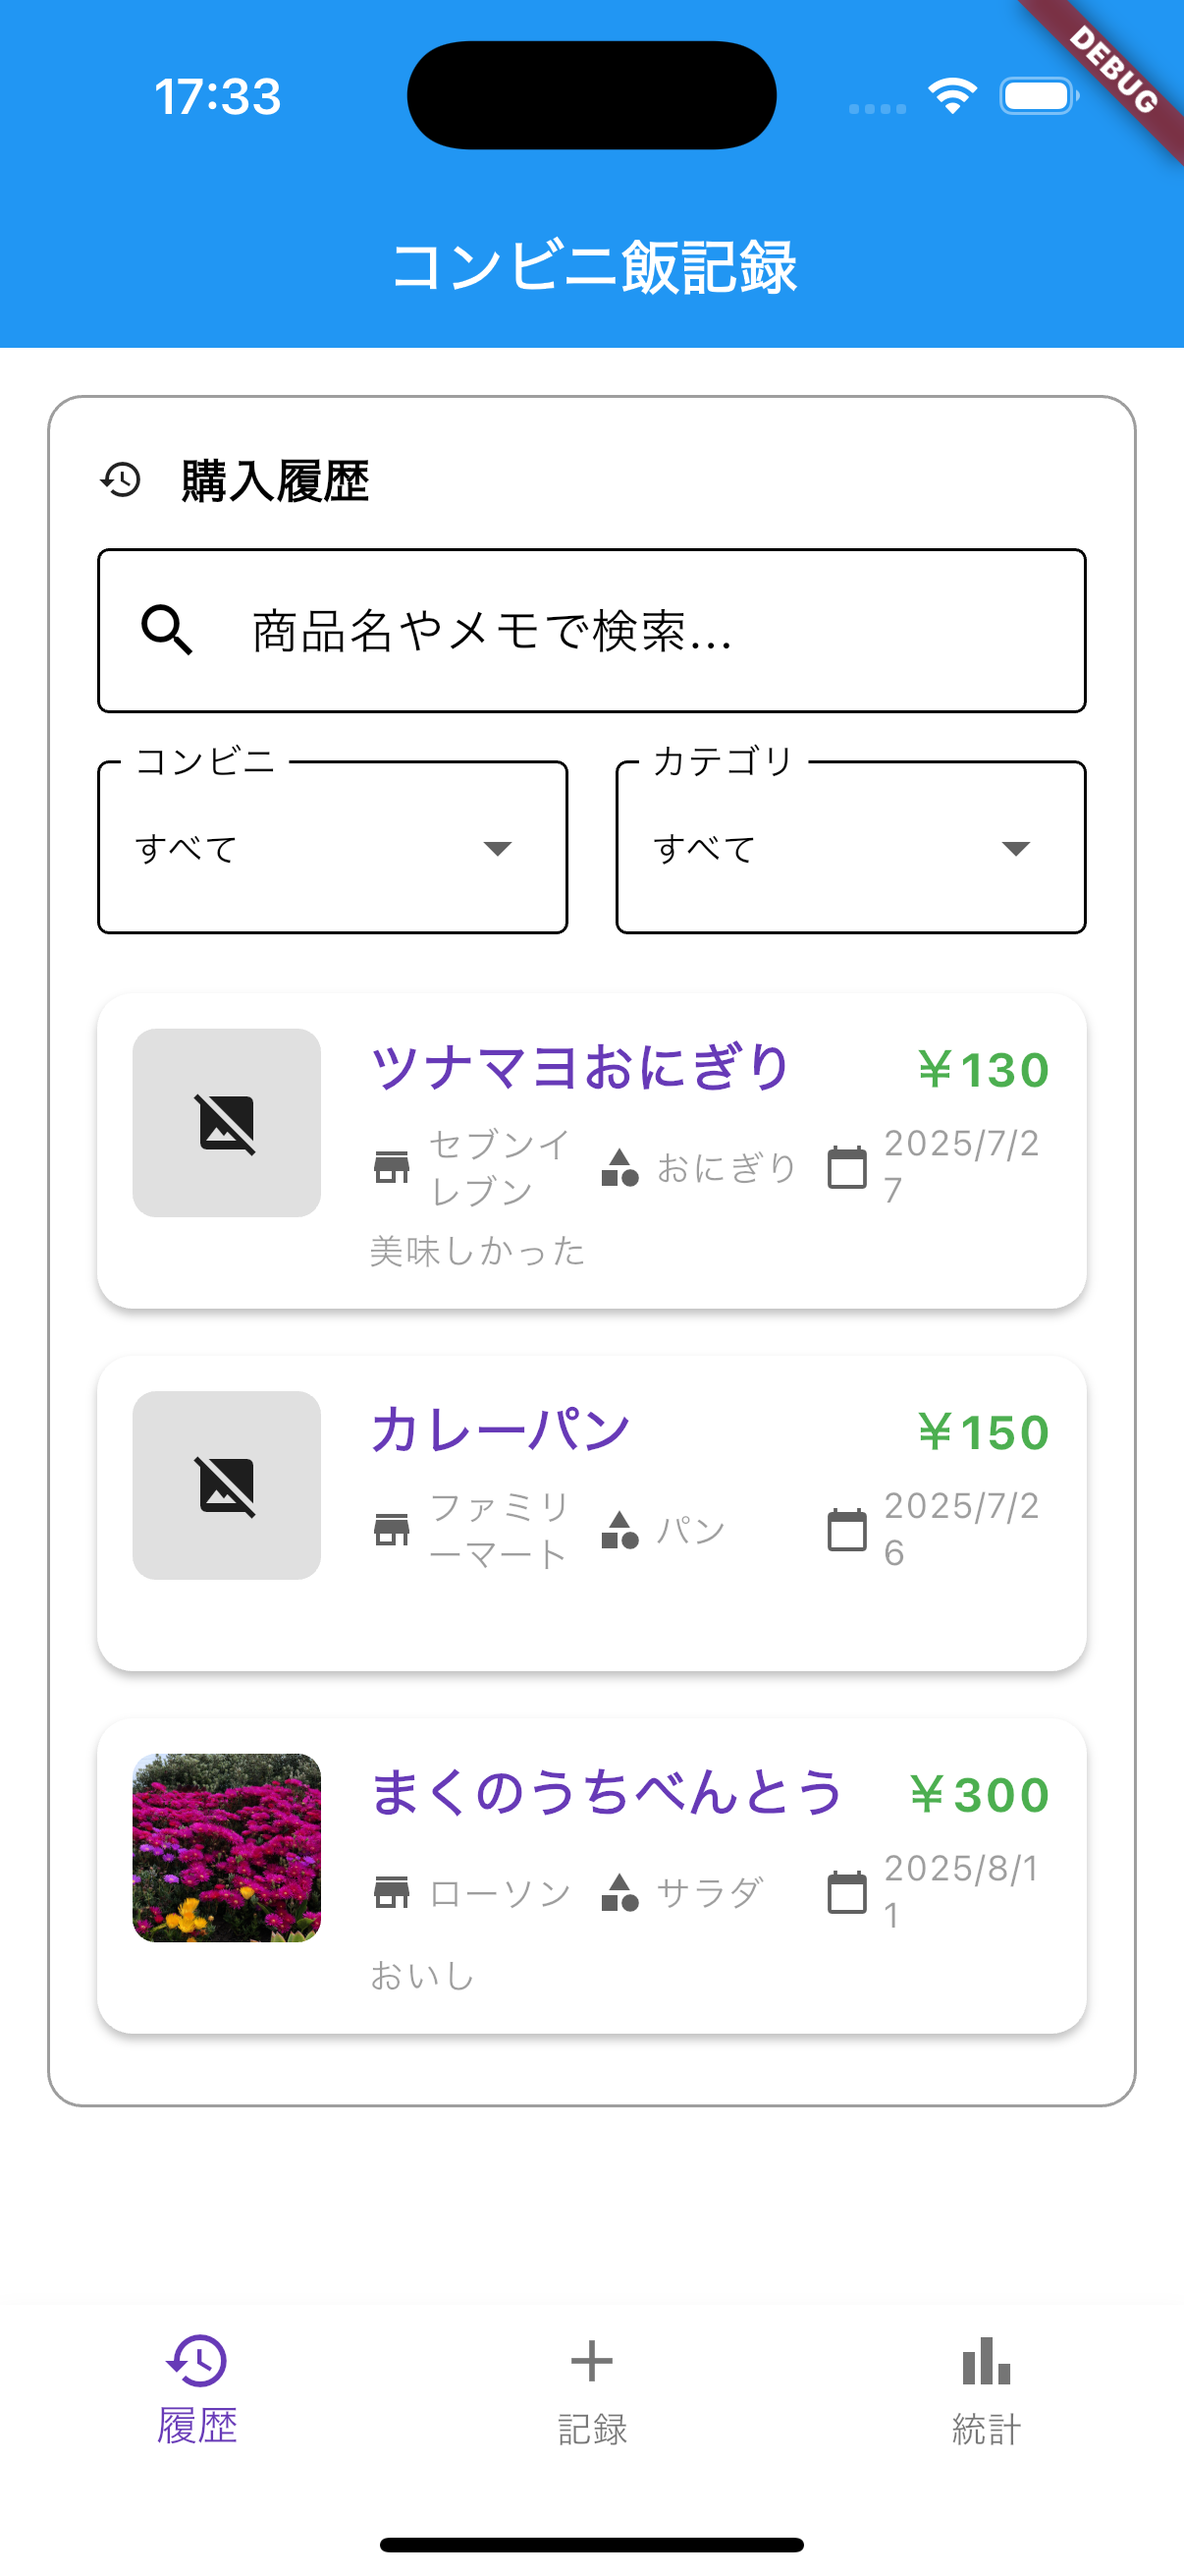
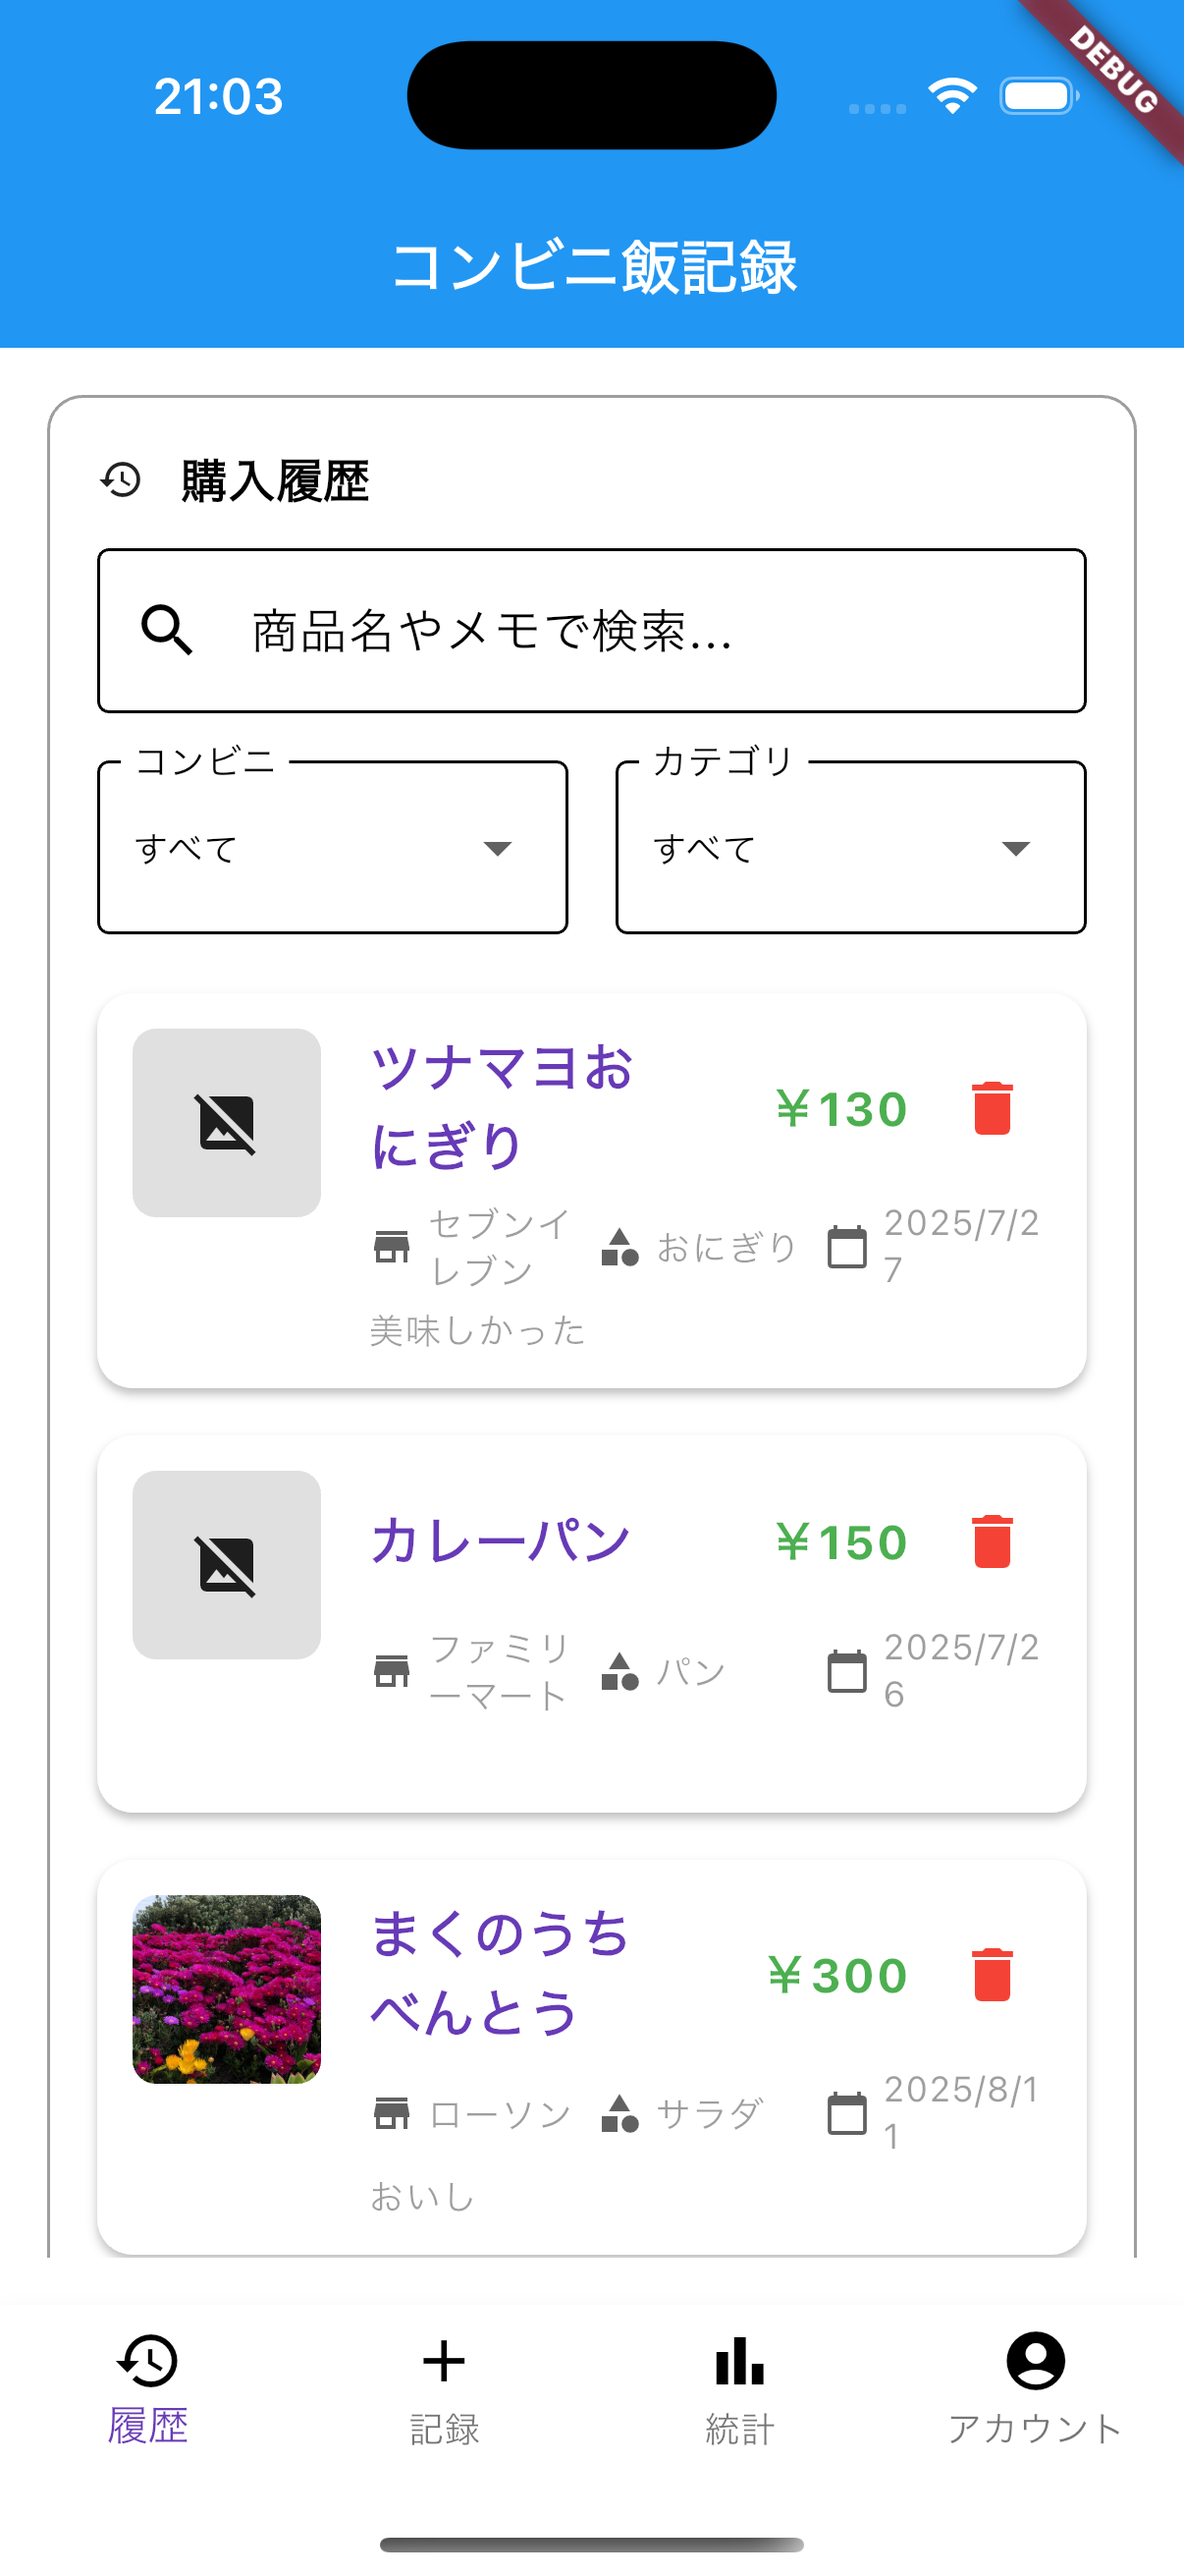
update README

diff --git a/mobile-apps/convenience_store_food_record_app/README.md b/mobile-apps/convenience_store_food_record_app/README.md
@@ -1,57 +1,72 @@
-# コンビニ飯記録アプリ
+# コンビニ飯記録アプリ 🍱
 
-## 対応OS
+Flutter で開発した、**コンビニで購入した商品の記録・履歴・統計を簡単に管理できるアプリ**です。  
+日々の支出や食生活を“見える化”して、自分の「コンビニ習慣」を振り返ることができます。
+
+---
+
+## 🚀 対応OS
 - iOS
 - Android
 
-## 機能一覧
-- 記録画面:購入したコンビニの商品（おにぎり、パン、デザートなど）を写真と簡単なメモ、金額とともに記録。
-- 履歴画面:記録した商品の履歴を一覧で表示。商品名やカテゴリなどで検索・フィルタリングできる。
-- 統計画面:記録したデータから、コンビニごとの購入回数や、ジャンル別の支出などをグラフで表示
+---
 
-## 使用技術、FW、LB
-- Flutter & Dart: メイン言語
-- flutter_localization: メッセージ管理
-- go_router: 画面遷移
-- Riverpod: 状態管理
-- minio: クラウドStogageオブジェクト保存処理
-- supabase_flutter: Supabase関連処理
+## 📱 機能一覧
 
-## セットアップ手順
+### 📝 記録画面
+- 購入した商品（おにぎり、パン、デザートなど）を  
+  - 写真  
+  - 簡単なメモ  
+  - 金額  
+  とともに記録  
+- 画像サイズの自動リサイズ処理あり（通信・容量対策）  
+- 1日のアップロード件数制限あり（スパム防止）  
 
-1. リポジトリをクローン
-	```sh
-	git clone <このリポジトリのURL>
-	cd convenience_store_food_record_app
-	```
-2. 依存パッケージを取得
-	```sh
-	flutter pub get
-	```
-3. iOSの場合
-	```sh
-	cd ios && pod install && cd ..
-	```
-4. アプリを起動
-	```sh
-	flutter run
-	```
+### 📚 履歴画面
+- 記録した商品の履歴を一覧で表示  
+- 商品名、カテゴリ、店舗などで検索・フィルタリング可能  
+- 編集・削除対応（予定）
+
+### 📊 統計画面
+- コンビニ別の購入回数・支出額をグラフ表示  
+- ジャンル別支出割合を円グラフ・棒グラフで可視化  
+- 集計期間の切り替え（週・月）に対応予定  
+
+### 👤 マイページ
+- ユーザー情報（ニックネーム・メールアドレス）を表示  
+- 端末ごとの識別IDを取得し、Supabase Auth と連携  
+- ログアウト・再ログインが可能  
+- 今後のアップデートで、通知設定やテーマ変更などの個人設定にも対応予定  
+
+
+---
 
 ## スクリーンショット
 
-| 記録画面 | 履歴画面 | 統計画面 |
-|:---:|:---:|:---:|
-| ![record](docs/screenshots/record.png) | ![history](docs/screenshots/history.png) | ![statistic](docs/screenshots/statistic.png) |
+| 記録画面 | 履歴画面 | 統計画面 | マイページ |
+|:---:|:---:|:---:|:---:|
+| ![record](docs/screenshots/record.png) | ![history](docs/screenshots/history.png) | ![statistic](docs/screenshots/statistic.png) | ![mypage](docs/screenshots/mypage.png) |
 
-## API,DB,Storage仕様
+---
 
-- データ登録,取得API: Supabase REST API
-- データ登録先Table: Supabase Table（PURCHASE_HISTORY）
-- 画像アップロードStorage: Cloudflare R2
+## 🧩 使用技術 / フレームワーク
 
-## 開発者向けメモ
+| 分類 | 内容 |
+|------|------|
+| フロントエンド | Flutter & Dart |
+| 状態管理 | Riverpod |
+| ルーティング | go_router |
+| ローカライズ | flutter_localization |
+| バックエンド | Supabase（REST API + Edge Functions） |
+| ストレージ | Cloudflare R2 + MinIO |
+| グラフ描画 | charts_flutter（または fl_chart） |
+| デバイス管理 | device_info_plus（端末ID取得など） |
 
-- DBスキーマやサンプルデータは `docs/` 配下のSQLファイルを参照
-- UI部品は `lib/components/`、画面ごとのWidgetは `lib/screen/` に配置
-- 状態管理はRiverpodを利用
-- ローカライズは `lib/l10n/` 配下
+---
+
+## 🛠 セットアップ手順
+
+1. **リポジトリをクローン**
+   ```bash
+   git clone <このリポジトリのURL>
+   cd convenience_store_food_record_app
